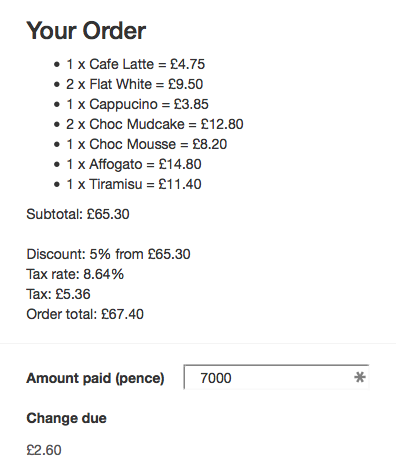
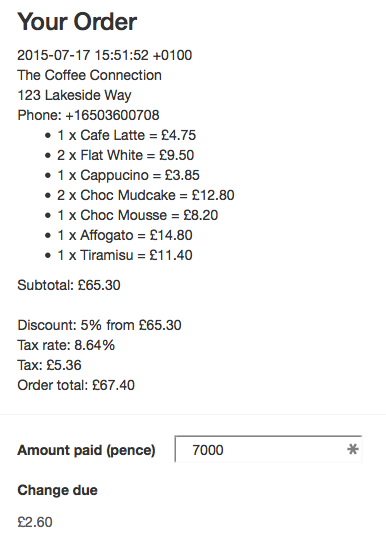
adding cafe information to order display

Changed region(s): [[0.0311, 0.0, 0.6218, 0.4859], [0.0311, 0.5163, 0.4974, 0.7592], [0.0311, 0.7896, 0.9326, 1.0]]

diff --git a/README.md b/README.md
@@ -28,7 +28,7 @@ The project uses Travis CI to test features as they were being built and submitt
 
 ![actual till](/images/till_actual.png)
 
-Note that the totals are different from the example image in the original spec. This appears to be because the original spec till appears to take tax off before discount, rather than taxing at the final discounted rate.
+Note that the totals are different from the example image in the original spec. This appears to be because the original spec till takes tax off before discount, rather than taxing at the final discounted rate. Also, display currency is £ rather than $.
 
 ## Original tech test specification
 
